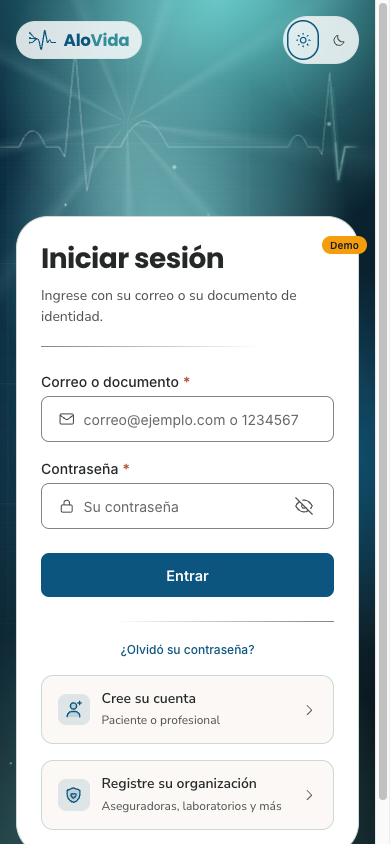
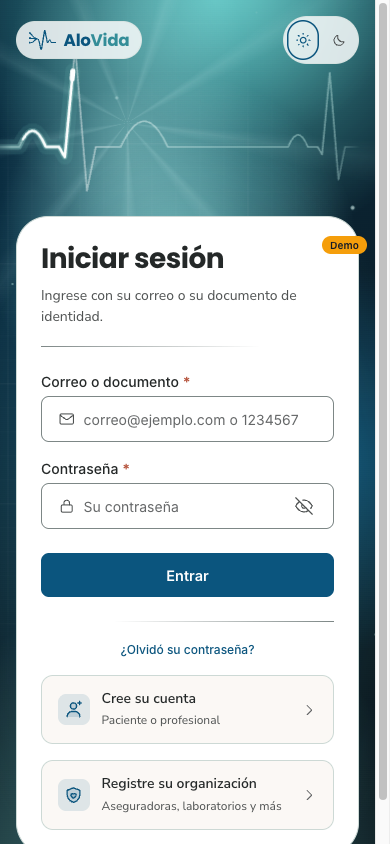
feat(entrada): la onda del latido gana vida, llega a los registros y se ve en móvil
La portada del login conserva su onda orquestada (scene="stage") y se mejora
sin tocar la geometría del trazo:
- el trazo base respira con el ciclo del monitor (sube al llegar el cometa al
  pico R) y la estela del cometa es más larga (aura 190→320, halo 150→220);
- en teléfono la tira se pinta a ~0,31× contra ~0,83× en escritorio, así que el
  trazo medía menos de un píxel: todo grosor lleva el factor --ecg-k (2,4 en
  teléfono, 1 en escritorio).

Los registros (calm a ancho completo) recuperan la firma de la marca: una
franja de onda detrás de la barra superior, sin ocupar lugar, con el mismo
dibujo-una-vez y pulso lento de la onda de calm. El panel pasa a transparente
en esa combinación para no taparla; el blanco lo sigue dando .auth-split.

Specs: la franja (aparece sólo en calm + full, misma curva en línea y pulso) y
guardas sobre la hoja de auth-stage (todo stroke-width con --ecg-k, respiración
apagada con «reducir movimiento»).

Claude-Session: https://claude.ai/code/session_01YG2fxKRVb2Gx8HUDWMKuaE

diff --git a/src/app/shared/components/organisms/auth-stage/auth-stage.css b/src/app/shared/components/organisms/auth-stage/auth-stage.css
@@ -189,6 +189,11 @@
   height: 40svh;
   aspect-ratio: 16 / 9;
   overflow: visible;
+  /* Los grosores se declaran en unidades del viewBox (1920 × 1080), y en el
+     teléfono la tira se pinta a ~0,31× contra ~0,83× en una ventana de 1440:
+     sin compensar, el trazo mide menos de un píxel y la onda se pierde. Este
+     factor (0,83 / 0,31) la deja con el mismo cuerpo en los dos tamaños. */
+  --ecg-k: 2.4;
   /* Se apaga hacia los dos bordes: la tira sale de la nada y vuelve a ella,
      como en la pantalla de un monitor, en vez de cortarse contra el marco. */
   mask-image: linear-gradient(90deg, transparent, #000000 7%, #000000 93%, transparent);
@@ -202,6 +207,7 @@
     width: 100%;
     height: 100%;
     aspect-ratio: auto;
+    --ecg-k: 1;
   }
 }
 
@@ -214,11 +220,30 @@
 /* La tira entera, tenue, que se DIBUJA al entrar: el monitor se enciende. */
 .auth-stage__ecg-base {
   stroke: url(#auth-stage-ink);
-  stroke-width: 2.2;
+  stroke-width: calc(2.2px * var(--ecg-k));
   opacity: 0.5;
   stroke-dasharray: 1000;
   stroke-dashoffset: 1000;
-  animation: auth-stage-ecg-draw 1.8s var(--ease-out) 0.2s forwards;
+  animation:
+    auth-stage-ecg-draw 1.8s var(--ease-out) 0.2s forwards,
+    auth-stage-ecg-breathe var(--beat) ease-in-out calc(var(--beat-start) + 1.8s) infinite;
+}
+
+/* El trazo quieto respira con el monitor: sube un poco cuando el cometa
+   llega al pico R (32,9 % del ciclo, ver más abajo) y se asienta después.
+   Es la capa de ambiente —sutil, 0,5 → 0,68—; lo protagonista sigue siendo
+   el cometa. */
+@keyframes auth-stage-ecg-breathe {
+  0%,
+  100% {
+    opacity: 0.5;
+  }
+  33% {
+    opacity: 0.68;
+  }
+  60% {
+    opacity: 0.52;
+  }
 }
 
 @keyframes auth-stage-ecg-draw {
@@ -247,29 +272,29 @@
 }
 
 .auth-stage__ecg-aura {
-  --len: 190px;
+  --len: 320px;
   stroke: var(--c-aqua-400);
-  stroke-width: 20;
+  stroke-width: calc(20px * var(--ecg-k));
   opacity: 0.12;
 }
 
 .auth-stage__ecg-halo {
-  --len: 150px;
+  --len: 220px;
   stroke: var(--c-aqua-300);
-  stroke-width: 7;
+  stroke-width: calc(7px * var(--ecg-k));
   opacity: 0.4;
 }
 
 .auth-stage__ecg-comet {
   --len: 110px;
   stroke: url(#auth-stage-ink);
-  stroke-width: 3.4;
+  stroke-width: calc(3.4px * var(--ecg-k));
 }
 
 .auth-stage__ecg-spark {
   --len: 6px;
   stroke: #ffffff;
-  stroke-width: 7;
+  stroke-width: calc(7px * var(--ecg-k));
 }
 
 @keyframes auth-stage-ecg-sweep {
@@ -287,7 +312,7 @@
 .auth-stage__wave {
   fill: none;
   stroke: var(--c-aqua-100);
-  stroke-width: 1.6;
+  stroke-width: calc(1.6px * var(--ecg-k));
   opacity: 0;
   transform-box: fill-box;
   transform-origin: center;

diff --git a/src/app/shared/components/organisms/auth-split/auth-split.spec.ts b/src/app/shared/components/organisms/auth-split/auth-split.spec.ts
@@ -19,7 +19,12 @@ class ThemeServiceFalso {
 @Component({
   imports: [AuthSplit],
   template: `
-    <app-auth-split [claim]="claim()" [tagline]="tagline()" [scene]="scene()">
+    <app-auth-split
+      [claim]="claim()"
+      [tagline]="tagline()"
+      [scene]="scene()"
+      [contentWidth]="width()"
+    >
       <p class="proyectado">formulario</p>
     </app-auth-split>
   `,
@@ -29,6 +34,7 @@ class Host {
   readonly claim = signal('Su salud, conectada');
   readonly tagline = signal('La red más grande');
   readonly scene = signal<AuthSplitScene>('split');
+  readonly width = signal<'wide' | 'full'>('wide');
 }
 
 describe('AuthSplit', () => {
@@ -220,6 +226,39 @@ describe('AuthSplit · escena calm', () => {
     expect(el().querySelector('.auth-split__brand .auth-split__ecg-pulse')).not.toBeNull();
   });
 
+  describe('franja de onda de las altas', () => {
+    it('a ancho completo la columna de marca no se pinta, así que la onda sale en una franja propia', () => {
+      host.width.set('full');
+      fixture.detectChanges();
+
+      const banda = el().querySelector('.auth-split__banda');
+      expect(banda?.getAttribute('aria-hidden')).toBe('true');
+      expect(banda?.querySelector('.auth-split__banda-base')).not.toBeNull();
+      expect(banda?.querySelector('.auth-split__banda-pulse')).not.toBeNull();
+    });
+
+    it('la franja dibuja el pulso sobre la MISMA curva que la línea', () => {
+      host.width.set('full');
+      fixture.detectChanges();
+
+      const trazos = Array.from(el().querySelectorAll('.auth-split__banda path'));
+      expect(new Set(trazos.map((t) => t.getAttribute('d'))).size).toBe(1);
+      expect(trazos.every((t) => t.getAttribute('pathLength') === '1000')).toBe(true);
+    });
+
+    it('con la columna de marca visible (ancho `wide`) no hay franja: la onda ya está en la columna', () => {
+      expect(el().querySelector('.auth-split__banda')).toBeNull();
+    });
+
+    it('en las otras escenas tampoco: el escenario ya tiene su latido', () => {
+      host.width.set('full');
+      host.scene.set('stage');
+      fixture.detectChanges();
+
+      expect(el().querySelector('.auth-split__banda')).toBeNull();
+    });
+  });
+
   it('las otras escenas no cambian: el logo blanco sigue siendo una imagen', () => {
     host.scene.set('split');
     fixture.detectChanges();
@@ -245,6 +284,9 @@ describe('AuthSplit · escena calm', () => {
       'auth-split__role',
       'auth-split__ecg-base',
       'auth-split__ecg-pulse',
+      'auth-split__banda',
+      'auth-split__banda-base',
+      'auth-split__banda-pulse',
     ];
 
     for (const clase of clases) {

diff --git a/src/app/shared/components/organisms/auth-split/auth-split.css b/src/app/shared/components/organisms/auth-split/auth-split.css
@@ -1039,6 +1039,61 @@
   }
 }
 
+/* ==========================================================================
+    La franja de onda de las altas (`calm` a ancho completo).
+
+    Detrás de la barra superior, a todo el ancho, sin ocupar lugar, en los dos
+    temas (el color sale de `--brand-secondary`). Mismas animaciones que la onda
+    de `calm`
+    (`auth-ecg-draw`, `auth-ecg-pulse`): una sola firma, un solo ritmo.
+   ========================================================================== */
+.auth-split__banda {
+  display: none;
+}
+
+.auth-split--calm.auth-split--full .auth-split__banda {
+  position: absolute;
+  inset-block-start: 0;
+  inset-inline: 0;
+  z-index: 0;
+  display: block;
+  inline-size: 100%;
+  block-size: 4.5rem;
+  color: var(--brand-secondary);
+  pointer-events: none;
+}
+
+/* El panel de `calm` pinta su propio fondo y taparía la franja que va detrás.
+   A ancho completo lo dejamos transparente: el blanco (o la superficie oscura)
+   lo sigue poniendo `.auth-split`, así que no cambia nada de lo que se ve. */
+.auth-split--calm.auth-split--full .auth-split__panel {
+  background: transparent;
+}
+
+.auth-split__banda-base,
+.auth-split__banda-pulse {
+  stroke-linecap: round;
+  stroke-linejoin: round;
+}
+
+.auth-split__banda-base {
+  stroke: currentColor;
+  stroke-width: 1.5;
+  stroke-opacity: 0.4;
+  stroke-dasharray: 1000;
+  stroke-dashoffset: 1000;
+  animation: auth-ecg-draw 1800ms var(--ease-out) 300ms forwards;
+}
+
+.auth-split__banda-pulse {
+  stroke: var(--brand-primary);
+  stroke-width: 2.5;
+  stroke-dasharray: 70 930;
+  stroke-dashoffset: 70;
+  opacity: 0;
+  animation: auth-ecg-pulse 5.2s linear 2.4s infinite;
+}
+
 /* Las puertas de la red: seis azulejos que se asientan de a uno. */
 .auth-split__roles {
   display: flex;
@@ -1096,6 +1151,16 @@
   }
 
   .auth-split__ecg-pulse {
+    animation: none !important;
+    opacity: 0;
+  }
+
+  .auth-split__banda-base {
+    animation: none !important;
+    stroke-dashoffset: 0;
+  }
+
+  .auth-split__banda-pulse {
     animation: none !important;
     opacity: 0;
   }

diff --git a/src/app/shared/components/organisms/auth-stage/auth-stage.spec.ts b/src/app/shared/components/organisms/auth-stage/auth-stage.spec.ts
@@ -1,3 +1,5 @@
+import { readFileSync } from 'node:fs';
+
 import { TestBed, type ComponentFixture } from '@angular/core/testing';
 
 import { AuthStage } from './auth-stage';
@@ -47,5 +49,31 @@ describe('AuthStage', () => {
     const columnas = motas.map((m) => m.style.getPropertyValue('--x'));
     expect(columnas[0]).toBe('13%');
     expect(columnas.every((x) => parseFloat(x) >= 0 && parseFloat(x) < 100)).toBe(true);
+  });
+
+  describe('hoja de estilos', () => {
+    const css = (): string =>
+      readFileSync('src/app/shared/components/organisms/auth-stage/auth-stage.css', 'utf8');
+
+    it('todo grosor de la tira lleva el factor `--ecg-k`: en teléfono se pinta a ~0,31× y sin él la onda se pierde', () => {
+      const grosores = css().match(/stroke-width:[^;]+;/g) ?? [];
+
+      expect(grosores.length).toBeGreaterThanOrEqual(6);
+      for (const grosor of grosores) {
+        expect(grosor, grosor).toContain('var(--ecg-k)');
+      }
+    });
+
+    it('el factor vale 1 en escritorio, donde la tira cubre el escenario a ~0,83×', () => {
+      expect(css()).toMatch(/--ecg-k:\s*2\.4;/);
+      expect(css()).toMatch(/aspect-ratio:\s*auto;\s*--ecg-k:\s*1;/);
+    });
+
+    it('el trazo base respira con el ciclo del monitor y «reducir movimiento» lo apaga', () => {
+      expect(css()).toMatch(/auth-stage-ecg-breathe var\(--beat\)/);
+      const reducido = css().slice(css().indexOf('prefers-reduced-motion'));
+      expect(reducido).toContain('.auth-stage__ecg-base');
+      expect(reducido).toMatch(/animation:\s*none\s*!important/);
+    });
   });
 });

diff --git a/src/app/shared/components/organisms/auth-split/auth-split.html b/src/app/shared/components/organisms/auth-split/auth-split.html
@@ -300,6 +300,35 @@
     </div>
   }
 
+  <!-- La onda también en las altas. A ancho completo (`contentWidth="full"`) la
+       columna de marca no se pinta, y la firma de la marca desaparecía justo
+       donde la persona más tiempo pasa. Esta franja la trae de vuelta detrás de
+       la barra superior —sin ocupar lugar, el formulario no se corre—: el mismo
+       gesto del acceso, dibujado una vez y con un pulso lento encima. -->
+  @if (scene() === 'calm' && contentWidth() === 'full') {
+    <svg
+      class="auth-split__banda"
+      viewBox="0 0 1440 64"
+      preserveAspectRatio="none"
+      fill="none"
+      aria-hidden="true"
+      focusable="false"
+    >
+      <path
+        class="auth-split__banda-base"
+        pathLength="1000"
+        vector-effect="non-scaling-stroke"
+        d="M0 36H520l16-8 16 14 18-30 20 50 16-26 14 0H900q20-16 40 0H1260l10-6 12 10 12-18 14 30 10-16H1440"
+      />
+      <path
+        class="auth-split__banda-pulse"
+        pathLength="1000"
+        vector-effect="non-scaling-stroke"
+        d="M0 36H520l16-8 16 14 18-30 20 50 16-26 14 0H900q20-16 40 0H1260l10-6 12 10 12-18 14 30 10-16H1440"
+      />
+    </svg>
+  }
+
   <main class="auth-split__panel">
     <div class="auth-split__chrome">
       <!-- La marca también acá, y no solo en la columna de la izquierda: en
